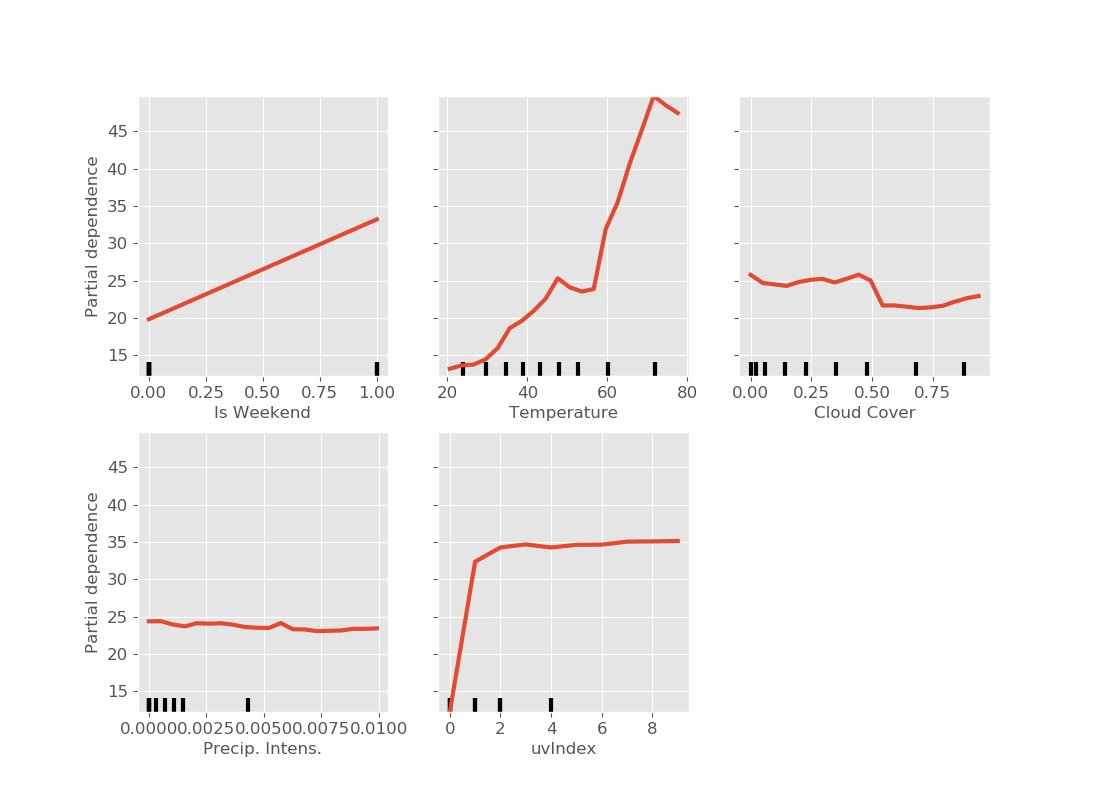
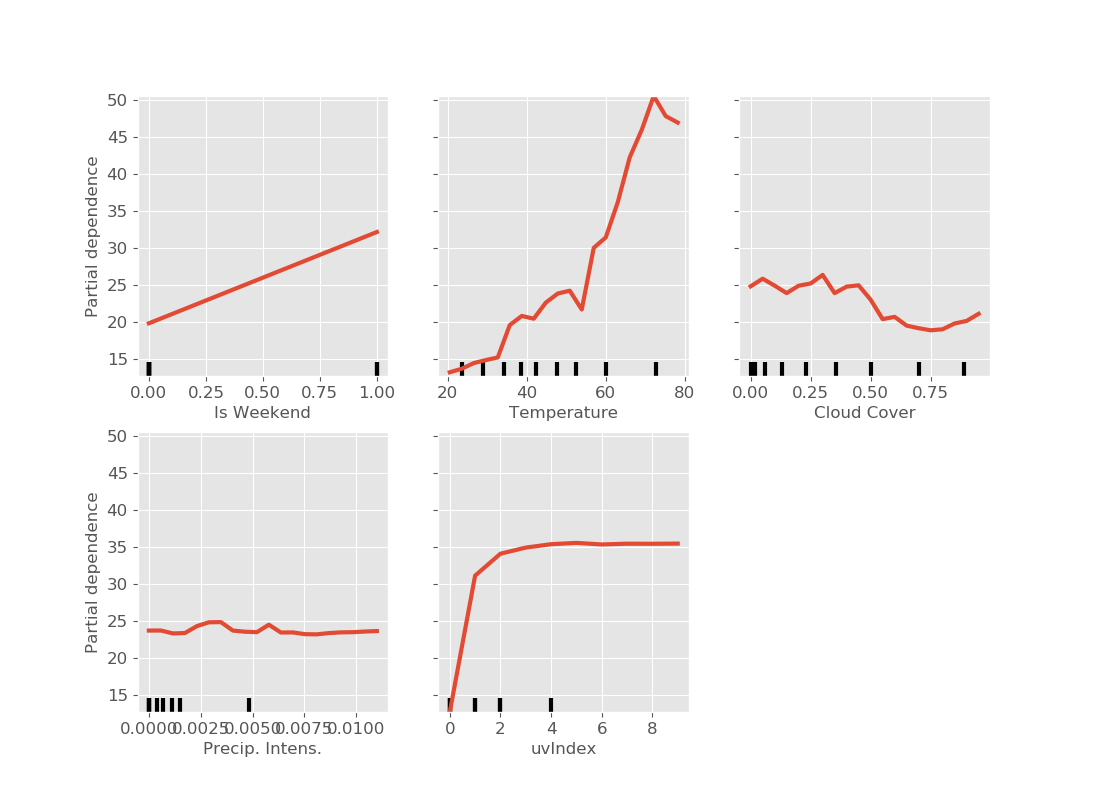
update readme, images, model script, eda script

diff --git a/src/generate_figures_EDA.py b/src/generate_figures_EDA.py
@@ -1,0 +1,174 @@
+import pandas as pd
+import numpy as np
+np.set_printoptions(suppress=True)
+import matplotlib.pyplot as plt
+import seaborn as sns
+
+# make plots look nice
+plt.rcParams['font.size'] = 14
+plt.rcParams['axes.labelsize'] = 'large'
+plt.rcParams['xtick.labelsize'] = 'large'
+plt.rcParams['ytick.labelsize'] = 'large'
+plt.rcParams['lines.linewidth'] = 3
+plt.style.use('ggplot')
+
+park_list = ['east_mount_falcon', 'east_three_sisters', 'east_white_ranch', 'lair_o_the_bear', 
+             'mount_galbraith', 'west_mount_falcon', 'west_three_sisters']
+
+def read_process_park_data(park_name):
+    '''
+    Read in raw LotSpot data for a park and process into dataframe.
+    Convert timestamp to US/Mountain datetime, add various datetime fields for analysis
+
+    INPUT
+    park_name (str) : Name of park to load
+
+    RETURNS
+    df (Pandas Dataframe)
+    '''
+    col_names = ['percent_capacity','spots_taken','total_spots','timestamp','in_out']
+    df = pd.read_csv('./data/raw_data/' + park_name + '.csv', header=None, names=col_names )
+
+    df['datetime_utc'] = pd.to_datetime(df['timestamp'], origin='unix', unit='s', utc=True)
+    df['datetime'] = df['datetime_utc'].dt.tz_convert('US/Mountain')
+    df.drop(['timestamp','datetime_utc'], axis=1, inplace=True)
+
+    df['in_out'] = df['in_out'].apply(lambda x: x if x<2 else np.NaN)
+
+    df['date']  = df['datetime'].dt.date
+    df['month'] = df['datetime'].dt.month
+    df['day']   = df['datetime'].dt.day
+    df['hour']  = df['datetime'].dt.hour
+    df['dow']   = df['datetime'].dt.dayofweek
+    
+    return df
+
+def read_process_park_data_into_hourly(park_name):
+    '''
+    Read in raw LotSpot data for a park and process into dataframe, **resampled to 1-hour intervals**
+    Convert timestamp to US/Mountain datetime, add various datetime fields for analysis
+
+    INPUT
+    park_name (str) : Name of park to load
+
+    RETURNS
+    df_hourly (Pandas Dataframe)
+    '''
+    col_names = ['percent_capacity','spots_taken','total_spots','timestamp','in_out']
+    df = pd.read_csv('./data/raw_data/' + park_name + '.csv', header=None, names=col_names )
+
+    df['datetime_utc'] = pd.to_datetime(df['timestamp'], origin='unix', unit='s', utc=True)
+    df['datetime'] = df['datetime_utc'].dt.tz_convert('US/Mountain')
+    df.drop(['timestamp','datetime_utc'], axis=1, inplace=True)
+    
+    df.drop(['spots_taken','total_spots','in_out'], axis=1, inplace=True)
+    
+    df_hourly = df.set_index('datetime').resample('H').pad().reset_index()
+    
+    df_hourly['date']  = df_hourly['datetime'].dt.date
+    df_hourly['month'] = df_hourly['datetime'].dt.month
+    df_hourly['day']   = df_hourly['datetime'].dt.day
+    df_hourly['hour']  = df_hourly['datetime'].dt.hour
+    df_hourly['dow']   = df_hourly['datetime'].dt.dayofweek
+    
+    return df_hourly
+
+def agg_lotspot_daily(df):
+    '''
+    Aggregate raw LotSpot data by date. Compute total # cars, and median/avg/max % capacity
+
+    INPUT
+    df
+
+    RETURNS
+    df_gb_day
+    '''
+    df_gb_day = df.groupby('date').agg(total_cars=pd.NamedAgg(column='in_out', aggfunc='sum'),
+                                  med_pc = pd.NamedAgg(column='percent_capacity', aggfunc='median'),
+                                  avg_pc = pd.NamedAgg(column='percent_capacity', aggfunc='mean'),
+                                  max_pc = pd.NamedAgg(column='percent_capacity', aggfunc='max')).reset_index()
+    return df_gb_day
+
+if __name__=='__main__':
+
+    park_name = 'east_mount_falcon'
+    park_name_plot = 'East Mount Falcon'
+    
+    # Plot Timeseries of daily-aggregated data
+    df = read_process_park_data(park_name)
+    df_gb_day = agg_lotspot_daily(df)
+        
+    fig,ax = plt.subplots(4,figsize=(14,10), sharex=True)
+
+    ax[0].plot(df_gb_day['date'], df_gb_day['total_cars'],'o-')
+    ax[0].set_ylabel('Total Cars')
+    ax[0].set_title(park_name_plot)
+
+    ax[1].plot(df_gb_day['date'], df_gb_day['med_pc'],'o-')
+    ax[1].set_ylabel('Median % Cap.')
+
+    ax[2].plot(df_gb_day['date'], df_gb_day['avg_pc'],'o-')
+    ax[2].set_ylabel('Avg % Cap.')
+
+    ax[3].plot(df_gb_day['date'], df_gb_day['max_pc'],'o-')
+    ax[3].set_ylabel('Max % Cap.')
+
+    plt.savefig('./images/' + park_name + '_Daily_TS.png')
+    
+    
+    dfh = read_process_park_data_into_hourly(park_name)
+    dfh = dfh[(dfh['hour']>5) & (dfh['hour']<20)]
+   
+    df3 = dfh.groupby('hour').mean().reset_index()
+    df3
+    fig,ax = plt.subplots(1, figsize=(8,6))
+    ax.bar(df3['hour'], df3['percent_capacity'])
+    ax.set_xlabel('Hour')
+    ax.set_ylabel('Average % Capacity')
+    ax.set_title(park_name_plot)
+    plt.savefig('./images/' + park_name + '_AvgPerCap_vs_hour.png')
+
+    df3 = dfh.groupby('dow').mean().reset_index()
+    fig,ax = plt.subplots(1, figsize=(8,6))
+    ax.bar(df3['dow'], df3['percent_capacity'])
+    ax.set_xlabel('Day of Week (0=Monday)')
+    ax.set_ylabel('Average % Capacity')
+    ax.set_title(park_name_plot)
+    plt.savefig('./images/' + park_name + '_AvgPerCap_vs_DayofWeek.png')
+
+    wea = pd.read_pickle('./data/weather/weather_combined_wea_hourly.pkl')
+    wea = wea[['time','temperature','cloudCover','precipIntensity','windGust','uvIndex']]
+    dfh = pd.merge(dfh,wea,left_on='datetime',right_on='time')
+
+    dfh.set_index('datetime',inplace=True)
+    dfh.reset_index(inplace=True)
+    fig,ax = plt.subplots(6, figsize=(14,12), sharex=True)
+    ax[0].plot(dfh['datetime'].values, dfh['percent_capacity'],'.')
+    ax[0].set_ylabel('% Capacity')
+    ax[0].set_title(park_name_plot)
+    ax[1].plot(dfh['datetime'].values, dfh['temperature'],'.')
+    ax[1].set_ylabel('Temp.')
+    ax[2].plot(dfh['datetime'].values, dfh['uvIndex'],'.')
+    ax[2].set_ylabel('UV Index')
+    ax[3].plot(dfh['datetime'].values, dfh['precipIntensity'],'.')
+    ax[3].set_ylabel('Precip')
+    ax[4].plot(dfh['datetime'].values, dfh['cloudCover'],'.')
+    ax[4].set_ylabel('Cloud Cover')
+    ax[5].plot(dfh['datetime'].values, dfh['windGust'],'.')
+    ax[5].set_ylabel('Wind Gust')
+    plt.savefig('./images/' + park_name + '_PerCap_weather_TS.png')
+
+    fig,ax = plt.subplots(nrows=2, ncols=2, figsize=(14,10), sharey=True)
+    sns.regplot(dfh['temperature'], dfh['percent_capacity'], robust=True, ci=None, scatter_kws={"alpha": 0.2}, ax = ax.flatten()[0])
+    ax.flatten()[0].set_xlabel('Temperature')
+    ax.flatten()[0].set_ylabel('% Capacity')
+    sns.regplot(dfh['uvIndex'], dfh['percent_capacity'], x_jitter=0.2, robust=True, ci=None,scatter_kws={"alpha": 0.2}, ax = ax.flatten()[1])
+    ax.flatten()[1].set_xlabel('UV Index')
+    ax.flatten()[1].set_ylabel('% Capacity')
+    sns.regplot(dfh['cloudCover'], dfh['percent_capacity'], robust=True, ci=None,scatter_kws={"alpha": 0.2}, ax = ax.flatten()[2])
+    ax.flatten()[2].set_xlabel('Cloud Cover')
+    ax.flatten()[2].set_ylabel('% Capacity')
+    sns.regplot(dfh['precipIntensity'], dfh['percent_capacity'], robust=True, ci=None,scatter_kws={"alpha": 0.2}, ax = ax.flatten()[3])
+    ax.flatten()[3].set_xlabel('Precipitation Intensity')
+    ax.flatten()[3].set_ylabel('% Capacity')
+    plt.savefig('./images/' + park_name + '_weather_scatter.png')

diff --git a/src/modeling.py b/src/modeling.py
@@ -1,6 +1,7 @@
 import pandas as pd
 import numpy as np
 np.set_printoptions(suppress=True)
+np.random.seed(47)
 import matplotlib.pyplot as plt
 import seaborn as sns
 
@@ -21,13 +22,20 @@ plt.rcParams['ytick.labelsize'] = 'large'
 plt.rcParams['lines.linewidth'] = 3
 plt.style.use('ggplot')
 
+
 def read_process_park_data_into_hourly(park_name):
     '''
     Read in raw LotSpot data for a park and process into dataframe, **resampled to 1-hour intervals**
     Convert timestamp to US/Mountain datetime, add various datetime fields for analysis
+
+    INPUT
+    park_name (str) : Name of park to load
+
+    RETURNS
+    df_hourly (Pandas Dataframe)
     '''
     col_names = ['percent_capacity','spots_taken','total_spots','timestamp','in_out']
-    df = pd.read_csv('./data/raw_data/' + park_name + '.csv', header=None, names=col_names )
+    df = pd.read_csv('../data/raw_data/' + park_name + '.csv', header=None, names=col_names )
 
     df['datetime_utc'] = pd.to_datetime(df['timestamp'], origin='unix', unit='s', utc=True)
     df['datetime'] = df['datetime_utc'].dt.tz_convert('US/Mountain')
@@ -35,7 +43,6 @@ def read_process_park_data_into_hourly(park_name):
     
     df.drop(['spots_taken','total_spots','in_out'], axis=1, inplace=True)
     
-    # Resample timeseries to hourly
     df_hourly = df.set_index('datetime').resample('H').pad().reset_index()
     
     df_hourly['date']  = df_hourly['datetime'].dt.date
@@ -65,24 +72,35 @@ if __name__=='__main__':
     # dummy-encode 'hour' feature
     df = pd.get_dummies(df,columns=['hour'], drop_first=True)
 
-    # drop un-neeed columns for model
-    df.drop(['datetime','date','day','month','time','dow'], axis=1, inplace=True)
-
+    # drop un-needed columns for model
+    df.drop(['datetime','day','month','time','dow'], axis=1, inplace=True)
+    
     # drop any rows with NaNs
     df.dropna(axis=0, how='any', inplace=True)
 
-    # Make feature and target arrays
-    y = df.pop('percent_capacity').values
-    feature_names = df.columns
-    X = df.values
+    # Train/test split ; Note I keep entire days together
+    df['date'] = df['date'].astype(str)
+    uniq_dates = df['date'].unique()
+    Ntrain = round(0.8*len(uniq_dates))
+    train_dates = np.random.choice(uniq_dates, size=Ntrain, replace=False)
+    df_train = df.loc[df['date'].isin(train_dates)]
+    df_test = df.loc[~df['date'].isin(train_dates)]
+    df_train.drop('date', axis=1, inplace=True)
+    df_test.drop('date', axis=1, inplace=True)
 
-    # Train-test split
-    X_train, X_test, y_train, y_test = train_test_split(X, y, test_size=0.2, random_state=7)
-
+    # Make target/feature arrays
+    y_train = df_train.pop('percent_capacity').values
+    y_test  = df_test.pop('percent_capacity').values
+    feature_names = df_train.columns
+    X_train = df_train.values
+    X_test  = df_test.values
+    
     # Predict the mean - hopefully we can do better!
+    y_hat_mean = np.mean(y_train)*np.ones_like(y_train)
+    print( 'Predict mean train  R^2:' +  str(round(r2_score(y_train,y_hat_mean),2)) )
     y_hat_mean = np.mean(y_train)*np.ones_like(y_test)
-    print( round(r2_score(y_test,y_hat_mean),2) )
-    print( round(np.sqrt(mean_squared_error(y_test,y_hat_mean)),2) )
+    print( 'Predict mean test R^2:' +  str(round(r2_score(y_test,y_hat_mean),2)) )
+    print( 'Predict RMSE:' + str(round(np.sqrt(mean_squared_error(y_test,y_hat_mean)),2)) )
 
     # Fit Random Forest with default parameters
     rf = RandomForestRegressor(n_jobs=-1)
@@ -97,22 +115,26 @@ if __name__=='__main__':
                 'max_features':['auto','sqrt','log2'],
                 'min_samples_split':[2,5,10],
                 'n_jobs':[-1],
-                'max_depth':[None, 3, 20, 30]
+                'max_depth':[None, 5, 10, 20]
                 }
     cv = GridSearchCV(RandomForestRegressor(), rf_params, n_jobs=-1, verbose=1)
     cv.fit(X_train,y_train)
 
     rf_best = cv.best_estimator_
+
+    print(rf_best)
+
     y_hat_rf_best = rf_best.predict(X_test)
     print('RF-Tuned Train R^2: ' + str(round(rf_best.score(X_train,y_train),2) ) )
     print('RF-Tuned Test R^2: '  + str(round(rf_best.score(X_test,y_test),2) ) )
     print('RF-Tuned Test RMSE: '  + str(round(np.sqrt(mean_squared_error(y_test, y_hat_rf_best)),2) ) )
 
     # Plot Feature Importances
-    feat_imp = pd.DataFrame({'feature_name':feature_names, 'feat_imp': rf.feature_importances_})
+    std = np.std([tree.feature_importances_ for tree in rf_best.estimators_], axis=0)
+    feat_imp = pd.DataFrame({'feature_name':feature_names, 'feat_imp': rf.feature_importances_, 'std':std})
     feat_imp.sort_values('feat_imp',ascending=False,inplace=True)
     fig, ax = plt.subplots(1, figsize=(8,10))
-    ax.barh(feat_imp['feature_name'], feat_imp['feat_imp'])
+    ax.barh(feat_imp['feature_name'], feat_imp['feat_imp'], xerr=feat_imp['std'])
     ax.invert_yaxis()
     ax.set_xlabel('Feature Importance')
     plt.savefig('./images/' + park_name + '_rf_featimp.png', bbox_inches='tight')

diff --git a/README.md b/README.md
@@ -34,19 +34,29 @@ Given the time constraints, I chose to first focus on a single park: **East Moun
 # EDA
 
 ## Timeseries of total visitors(cars) per day
-![](images/east_mount_falconDaily_TS.png)
+* A little bit of seasonal pattern, but not as much as expected
+* Note general increase after March 2020 - likely Covid-19 related.
+![](images/east_mount_falcon_Daily_TS.png)
 
 ## Hourly Pattern
 ![](images/east_mount_falcon_AvgPerCap_vs_hour.png)
 
 ## Daily Pattern
+* Signficant difference between weekdays/weekends
+
 ![](images/east_mount_falcon_AvgPerCap_vs_DayofWeek.png)
 
-## Weather
+## Weather Timeseries
+![](images/east_mount_falcon_PerCap_weather_TS.png)
+
+## Percent Capacity Vs. Weather
 ![](images/east_mount_falcon_weather_scatter.png)
 
 
 # Modeling
+
+## Target
+- Percent Capacity of Parking Lot (hourly)
 
 ## Features
 - Day of week: Converted into Is-Weekend binary category.
@@ -55,19 +65,36 @@ Given the time constraints, I chose to first focus on a single park: **East Moun
 - Cloud Cover
 - Precipitation Intensity
 
-## Target
-- Percent Capacity of Parking Lot (hourly)
-
-
 ## Train/test split
-- Use only pre-Covid19 data (before March 2020)
-- 80/20 Train/Test Split 
+- Use only pre-Covid19 data (before March 1, 2020)
+- Use only hours 6am to 8pm
+- 80/20 Train/Test Split (_Keep entire days together_)
 - Train and tune model on training data, then evaluate on test-set.
+
+## Baseline Model: Predict the mean
+* Test-set RMSE : 28.9
 
 ## Random Forest
 
-* Test-set R^2  :
-* Test-set RMSE :
+### Default Parameters
+
+Performance:
+* Train-set R^2 : 0.95
+* Test-set R^2  : 0.54
+* Test-set RMSE : 19.5
+
+### Tuned w/ GridSearchCV
+
+Performance:
+* Train-set R^2 : 0.75
+* Test-set R^2  : 0.64
+* Test-set RMSE : 17.2
+
+Best Parameters:
+* n_estimators : 100
+* max_depth : 10
+* max_features : 'log2'
+* min_samples_split : 10 
 
 ### Feature Importance
 * Weather variabes and day of week most important
@@ -78,7 +105,8 @@ Given the time constraints, I chose to first focus on a single park: **East Moun
 ### Partial Dependence Plot
 * Temperature shows generally positive dependence (what happens at higher temps?)
 * Cloud cover shows weaker negative trend, and appears to be a larger negative shift at values >0.5 .
-* 
+* Precipitation Intensity shows slight negative trend, but a lot weaker than I expected.
+* UV Index: Big break at value of ~2.
 
 ![](images/east_mount_falcon_rf_part_dep.png)
 
